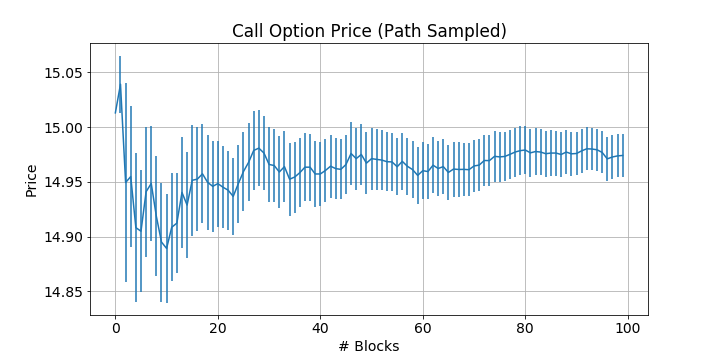
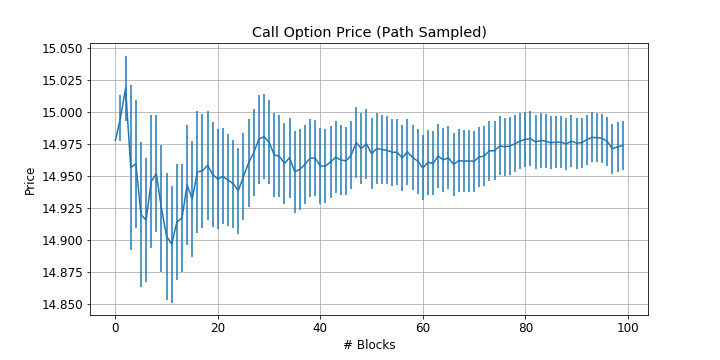
should my prices all be the same?

diff --git a/README.md b/README.md
@@ -4,7 +4,7 @@ LSN exercise delivery.
 
 ### Instructions
 
-Run `make` in `.esercizio_x/rng/` to generate `main.exe`, which will run all simulations. 
+Run `make` in `.esercizio_x/rng/` to generate `main.exe`, which will run all simulations.
 
 ### Exercise 1
 
@@ -12,12 +12,13 @@ Run `make` in `.esercizio_x/rng/` to generate `main.exe`, which will run all sim
 
 ### Exercise 2
 
- - [ ] Fix importance sampling. I = 0.9 ?
+ - [ ] Fix importance sampling. I broke it more, but it's not like it was working beforehand
  - [ ] Are my RWs correct? k = 0.6
 
 ### Exercise 3
 
  - [x] do the math/scratchwork before you code!
- - [ ] implement max comparator
- - [ ] reinitialize rng
- - [ ] implement call/puts (same file!)  
+ - [x] implement max comparator
+ - [x] reinitialize rng
+ - [x] implement call/puts (same file!)
+ - [ ] should my methods be giving different results
